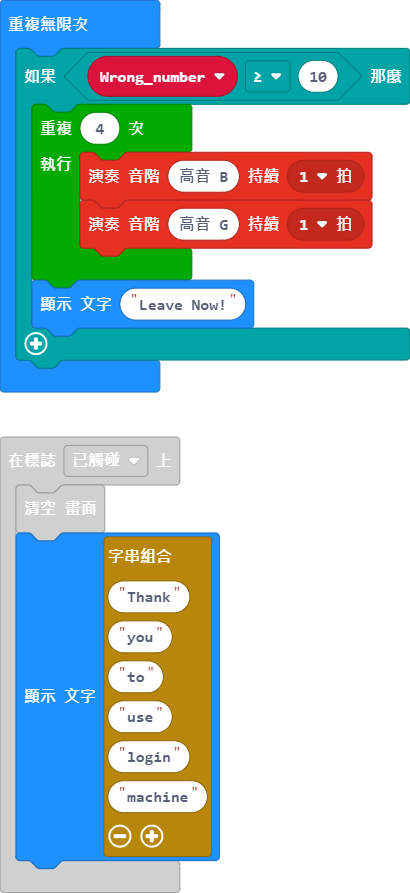
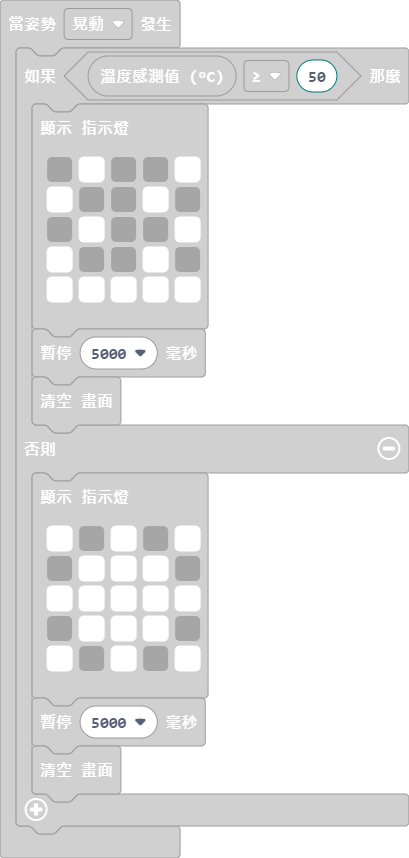
更新 pxt.json, main.blocks, main.ts

diff --git a/main.ts b/main.ts
@@ -21,7 +21,7 @@ input.onButtonPressed(Button.A, function () {
     }
 })
 input.onGesture(Gesture.Shake, function () {
-    if (input.temperature() >= 20) {
+    if (input.temperature() >= 50) {
         basic.showLeds(`
             . # . . #
             # . . # .
